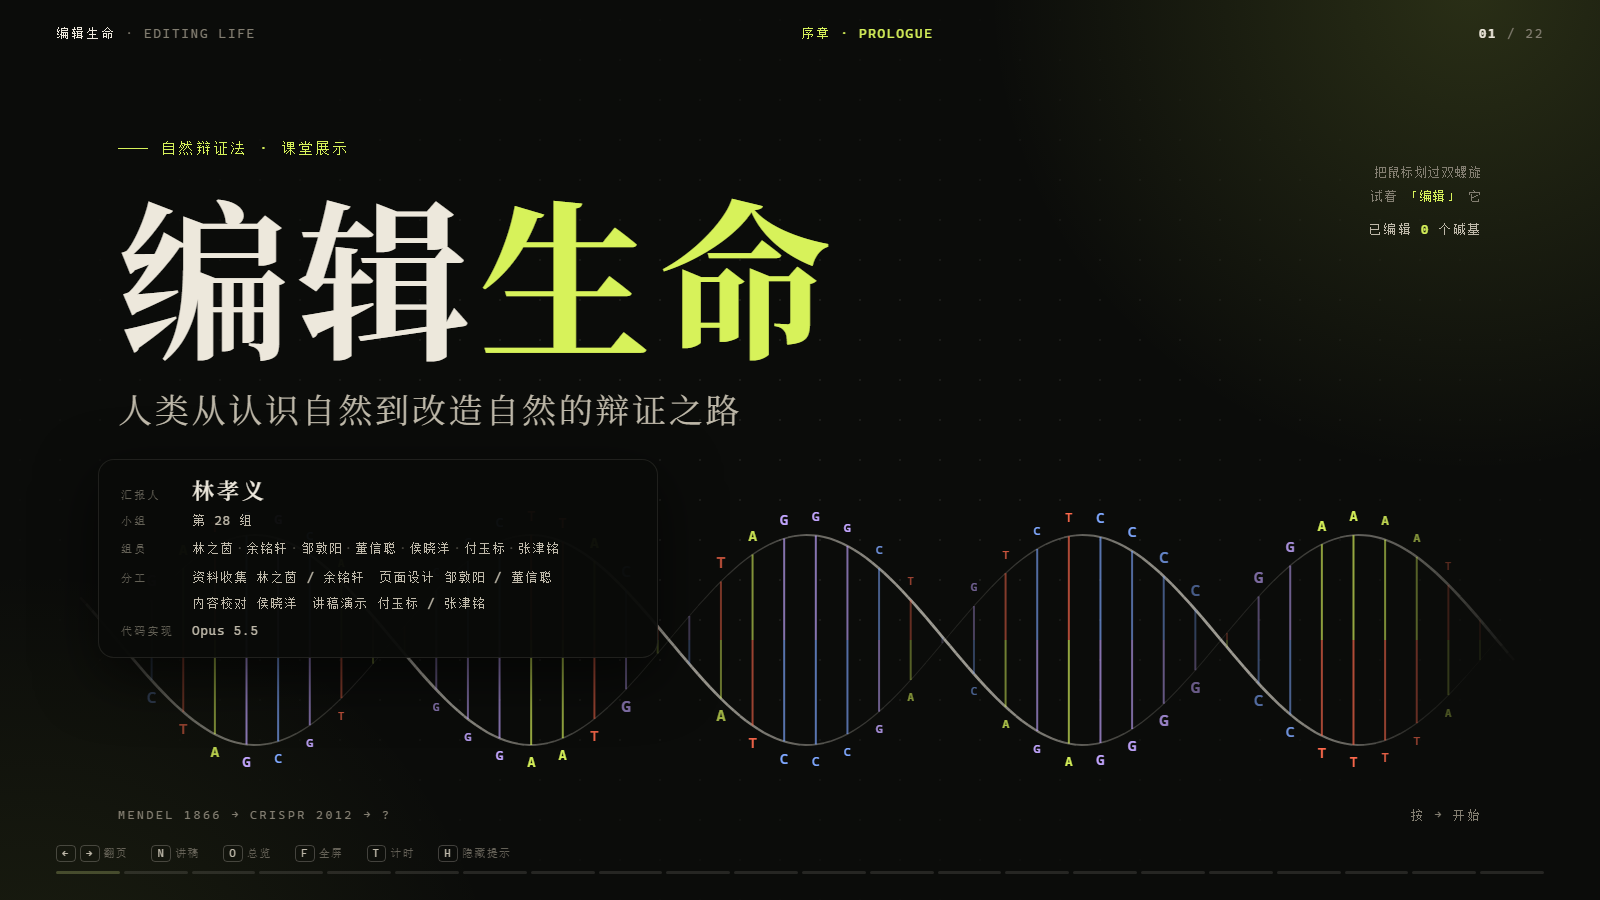
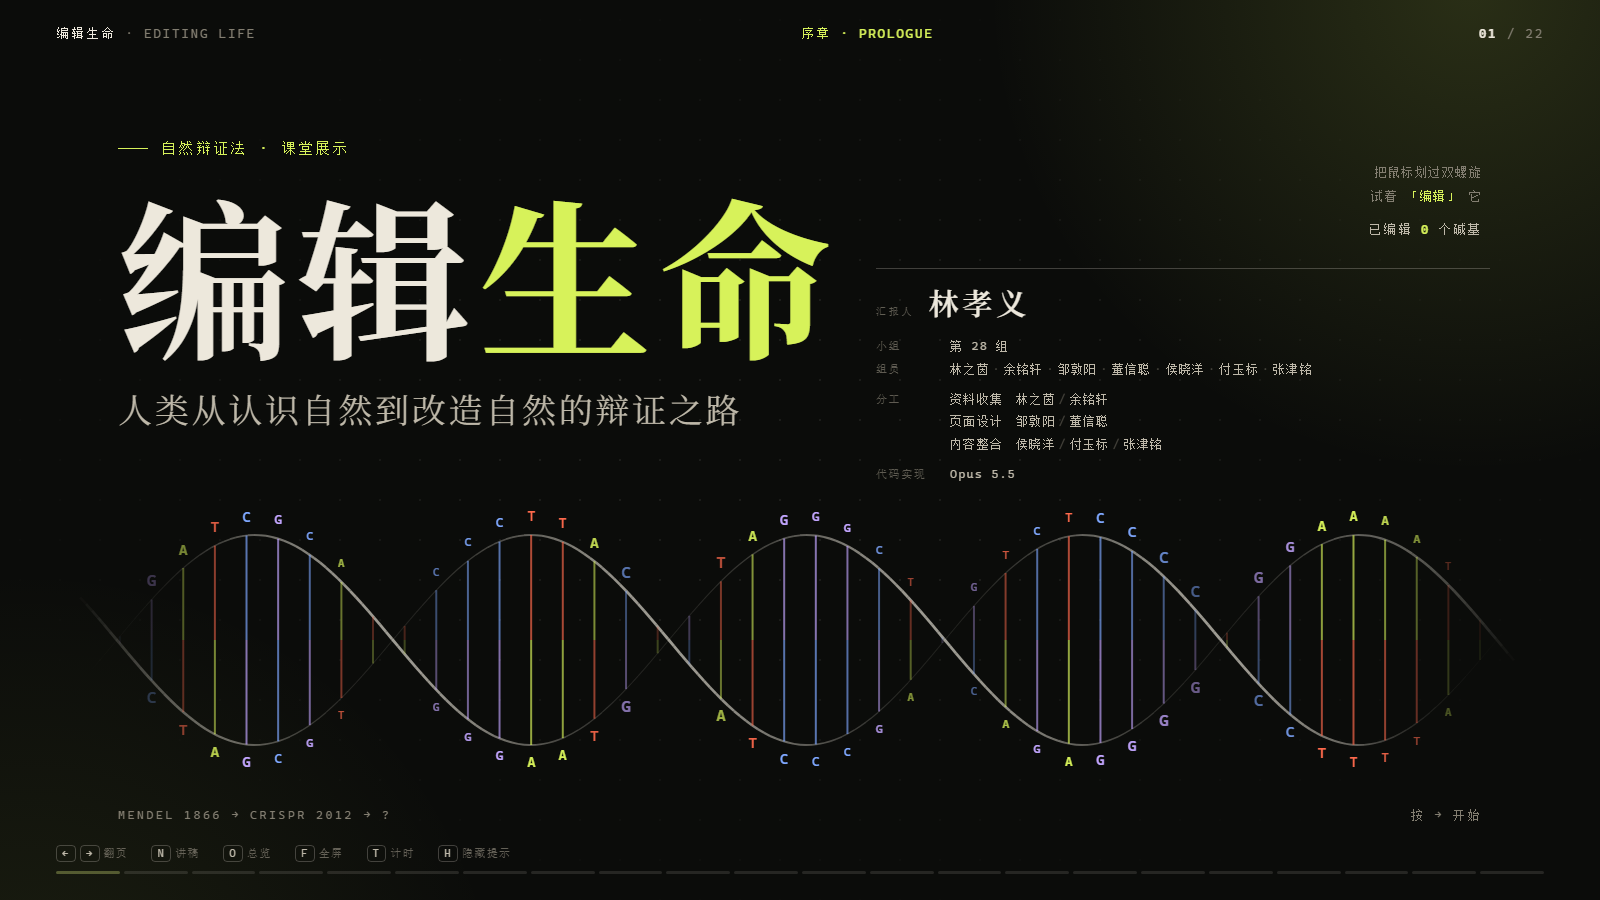
封面：署名块移到标题右侧空白处，改为竖排无卡片排版；分工去掉「讲稿演示」，内容校对改为内容整合（三人分担）

diff --git a/index.html b/index.html
@@ -107,13 +107,15 @@ a{color:inherit}
 .cover-text h1 span{color:var(--lime)}
 .cover-sub{font-family:var(--serif);font-size:34px;color:var(--ink2);margin:26px 0 0;letter-spacing:.08em}
 .cover-meta{margin-top:30px;font-family:var(--mono);font-size:14px;color:var(--mute);letter-spacing:.18em}
-.cover-cred{margin-top:26px;margin-left:-20px;padding:16px 22px 15px;max-width:560px;display:grid;grid-template-columns:auto 1fr;column-gap:18px;row-gap:4px;align-items:baseline;font-family:var(--mono);font-size:12.5px;line-height:1.85;letter-spacing:.08em;color:var(--mute);border-radius:16px;background:rgba(9,10,8,.97);border:1px solid rgba(237,232,220,.10);box-shadow:0 18px 60px rgba(0,0,0,.6)}
-.cover-cred i{font-style:normal;font-size:10.5px;letter-spacing:.26em;opacity:.75;white-space:nowrap}
-.cover-cred b{font-family:var(--serif);font-size:22px;font-weight:600;color:var(--ink);letter-spacing:.14em;line-height:1.3}
-.cover-cred span{color:var(--ink2)}
-.cover-cred em{font-style:normal;color:var(--mute);opacity:.55;padding:0 2px}
-.cover-cred .cr-tags{display:flex;flex-wrap:wrap;gap:3px 14px;margin-top:2px}
-.cover-cred .cr-tag{white-space:nowrap}
+.cover-cred{position:absolute;left:876px;top:268px;width:614px;z-index:3;pointer-events:none;padding-top:18px;border-top:1px solid var(--line2);font-family:var(--mono);font-size:12px;line-height:1.9;letter-spacing:.1em;color:var(--mute);display:flex;flex-direction:column;gap:0}
+.cover-cred .cr-name{display:flex;align-items:baseline;gap:14px;margin-bottom:14px}
+.cover-cred .cr-name i{font-style:normal;font-size:10px;letter-spacing:.28em;opacity:.72}
+.cover-cred .cr-name b{font-family:var(--serif);font-size:30px;font-weight:600;color:var(--ink);letter-spacing:.13em;line-height:1}
+.cover-cred .cr-row{display:grid;grid-template-columns:60px 1fr;column-gap:14px;align-items:baseline}
+.cover-cred .cr-row.cr-start{margin-top:7px}
+.cover-cred .cr-row i{font-style:normal;font-size:10.5px;letter-spacing:.2em;opacity:.7}
+.cover-cred .cr-row span{color:var(--ink2)}
+.cover-cred .cr-row span em{font-style:normal;color:var(--mute);opacity:.5;padding:0 3px}
 .cover-side{position:absolute;right:118px;top:160px;text-align:right;z-index:3;pointer-events:none}
 .cover-side .hint{display:block;line-height:2}
 .edit-log{font-family:var(--mono);font-size:13px;color:var(--ink2);margin-top:14px;min-height:20px;letter-spacing:.06em}
@@ -680,13 +682,15 @@ body.mode-vote{overflow-x:hidden}
       <div class="kicker a">自然辩证法 · 课堂展示</div>
       <h1 class="a" style="--d:1">编辑<span>生命</span></h1>
       <p class="cover-sub a" style="--d:2">人类从认识自然到改造自然的辩证之路</p>
-      <div class="cover-cred a" style="--d:3">
-        <i>汇报人</i><b id="presenter">林孝义</b>
-        <i>小组</i><span>第 28 组</span>
-        <i>组员</i><span>林之茵<em>·</em>余铭轩<em>·</em>邹敦阳<em>·</em>董信聪<em>·</em>侯晓洋<em>·</em>付玉标<em>·</em>张津铭</span>
-        <i>分工</i><span class="cr-tags"><span class="cr-tag">资料收集 林之茵 / 余铭轩</span><span class="cr-tag">页面设计 邹敦阳 / 董信聪</span><span class="cr-tag">内容校对 侯晓洋</span><span class="cr-tag">讲稿演示 付玉标 / 张津铭</span></span>
-        <i>代码实现</i><span>Opus 5.5</span>
-      </div>
+    </div>
+    <div class="cover-cred a" style="--d:3">
+      <div class="cr-name"><i>汇报人</i><b id="presenter">林孝义</b></div>
+      <div class="cr-row"><i>小组</i><span>第 28 组</span></div>
+      <div class="cr-row"><i>组员</i><span>林之茵<em>·</em>余铭轩<em>·</em>邹敦阳<em>·</em>董信聪<em>·</em>侯晓洋<em>·</em>付玉标<em>·</em>张津铭</span></div>
+      <div class="cr-row cr-start"><i>分工</i><span>资料收集　林之茵<em>/</em>余铭轩</span></div>
+      <div class="cr-row"><i></i><span>页面设计　邹敦阳<em>/</em>董信聪</span></div>
+      <div class="cr-row"><i></i><span>内容整合　侯晓洋<em>/</em>付玉标<em>/</em>张津铭</span></div>
+      <div class="cr-row cr-start"><i>代码实现</i><span>Opus 5.5</span></div>
     </div>
     <div class="cover-side a" style="--d:4">
       <span class="hint">把鼠标划过双螺旋</span>

diff --git a/讲稿.md b/讲稿.md
@@ -4,7 +4,7 @@
 >
 > **组员**：林之茵 · 余铭轩 · 邹敦阳 · 董信聪 · 侯晓洋 · 付玉标 · 张津铭
 >
-> **分工**：资料收集 林之茵 / 余铭轩　·　页面设计 邹敦阳 / 董信聪　·　内容校对 侯晓洋　·　讲稿演示 付玉标 / 张津铭
+> **分工**：资料收集 林之茵 / 余铭轩　·　页面设计 邹敦阳 / 董信聪　·　内容整合 侯晓洋 / 付玉标 / 张津铭
 >
 > 自然辩证法 · 课堂展示 · 共 22 页 · 精简版约 **9 分 30 秒**（含两次投票各约 20 秒的等待）
 >

diff --git a/README.md b/README.md
@@ -146,8 +146,7 @@ git push -u origin main
 | 组员 | 林之茵、余铭轩、邹敦阳、董信聪、侯晓洋、付玉标、张津铭 |
 | 资料收集 | 林之茵 / 余铭轩 |
 | 页面设计 | 邹敦阳 / 董信聪 |
-| 内容校对 | 侯晓洋 |
-| 讲稿演示 | 付玉标 / 张津铭 |
+| 内容整合 | 侯晓洋 / 付玉标 / 张津铭 |
 | 代码实现 | Opus 5.5 |
 
 ## 十一、许可与致谢
